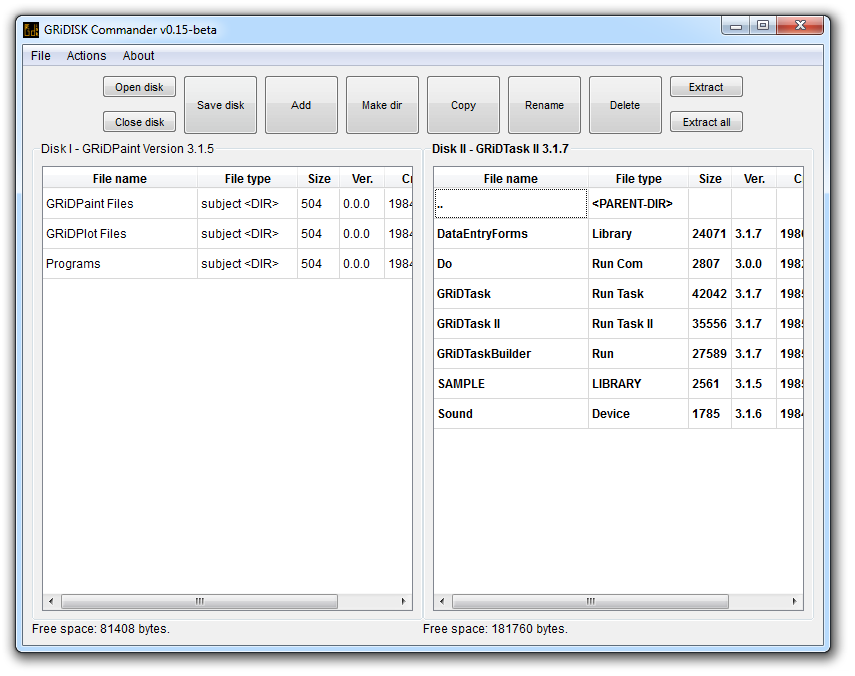
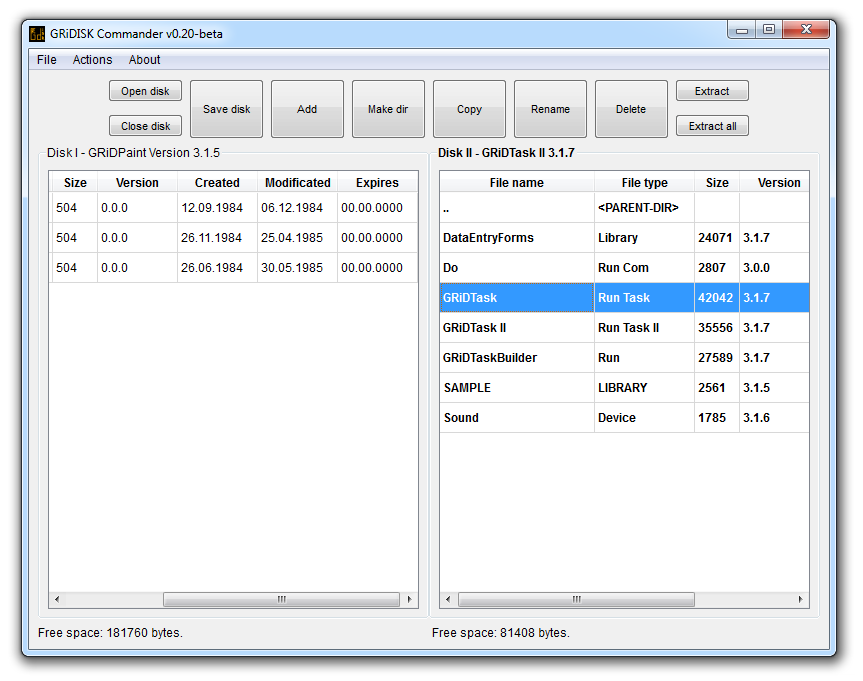
Generating new images

Changed region(s): [[0.0, 0.0, 1.0, 0.9941]]

diff --git a/dialogs/mainwindow.cpp b/dialogs/mainwindow.cpp
@@ -203,7 +203,7 @@ MainWindow::MainWindow(QWidget *parent)
     QTableWidget* twig[] = {ui->tableWidget, ui->tableWidget_2};
     for (int i = 0; i < 2; i++){
         twig[i]->horizontalHeader()->resizeSection(0, 155);
-        twig[i]->horizontalHeader()->resizeSection(2, szcor);
+        twig[i]->horizontalHeader()->resizeSection(2, 45);
         twig[i]->horizontalHeader()->resizeSection(3, 80);
         twig[i]->horizontalHeader()->resizeSection(4, 80);
         twig[i]->horizontalHeader()->resizeSection(5, 80);
@@ -731,10 +731,11 @@ void MainWindow::New(){
     if (dat[acdisk] != nullptr)
         if (!CloseImg()) return;
 
-    //ccos_make_new_image(&dat[acdisk], &siz[acdisk]);
+    siz[acdisk] = 0;
+    dat[acdisk] = ccos_create_new_image(&siz[acdisk]);
 
     inodeon[acdisk].clear();
-    isch[acdisk] = 0;
+    isch[acdisk] = 1;
     isop[acdisk] = 1;
     name[acdisk] = nullptr;
     ccos_inode_t* root = ccos_get_root_dir(dat[acdisk], siz[acdisk]);

diff --git a/dialogs/mainwindow.h b/dialogs/mainwindow.h
@@ -21,10 +21,8 @@ extern "C"{ //Include for ccos_inode_t type
 }
 
 #if defined(WIN32)
-#define szcor 20
 #define MKDIR(filename, mode) mkdir(filename)
 #else
-#define szcor 42
 #define MKDIR(filename, mode) mkdir(filename, mode)
 #endif
 
